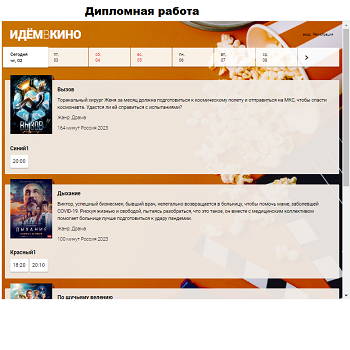
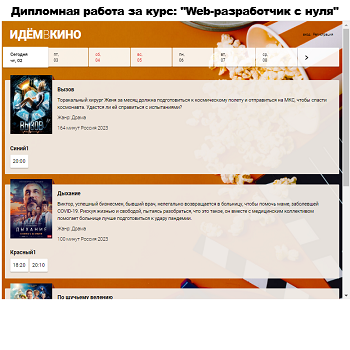
Add image in folder works

Changed region(s): [[0.0286, 0.0, 0.9714, 0.0571]]

diff --git a/src/components/data/portfolio-list.tsx b/src/components/data/portfolio-list.tsx
@@ -1,15 +1,15 @@
 export const PortfolioList = [
   {
-    link: 'https://github.com/Gronik4/WebDevDiplomaV1',
-    img: 'images/works/dip.png',
-    alt: 'Дипломная работа Веб разработчик с нуля',
-    name: 'dipWW'
+    link: 'https://github.com/GronickWork/hotel-aggregator_portfolio-demo.git',
+    img: '/images/works/node_demo.png',
+    alt: 'Дипломная работа за курс Node.js для backend-разработки',
+    name: 'dipNode'
   },
   {
-    link: 'https://github.com/Gronik4/graduation-project_backend-development-with-node.js.git',
-    img: 'images/works/d-node.png',
-    alt: 'Дипломная работа Веб разработчик с нуля',
-    name: 'dipNode'
+    link: 'https://github.com/Gronik4/WebDevDiplomaV1',
+    img: 'images/works/dip.png',
+    alt: 'Дипломная работа Веб-разработчик с нуля',
+    name: 'dipWW'
   },
   {
     link: 'https://trash-free.ru',
